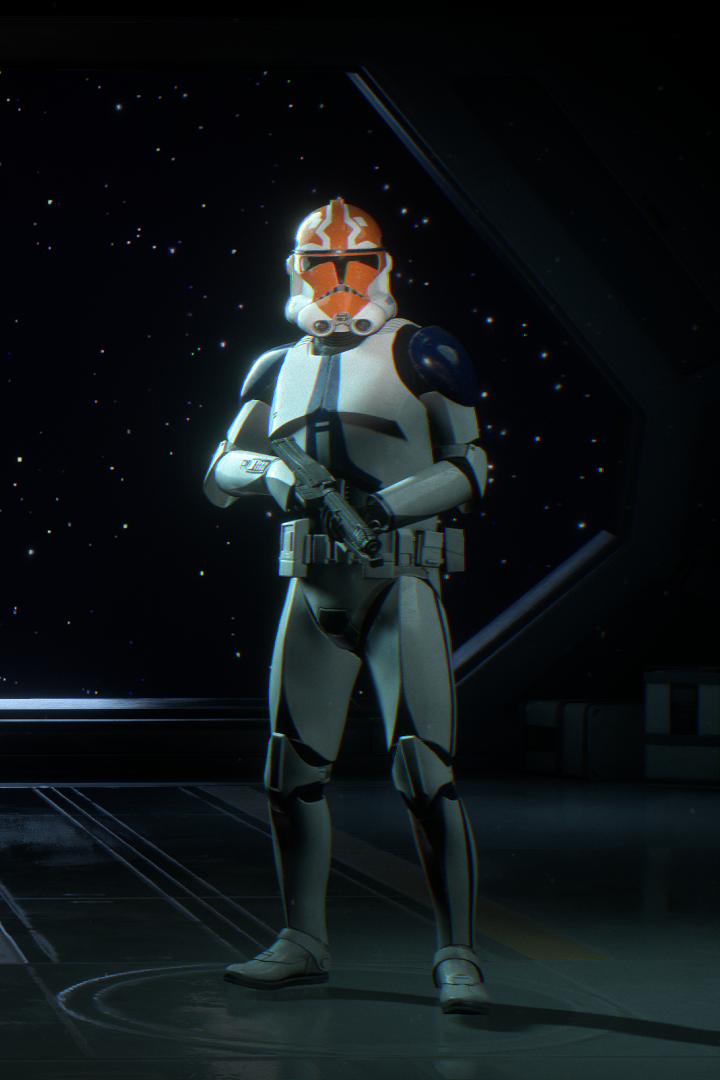
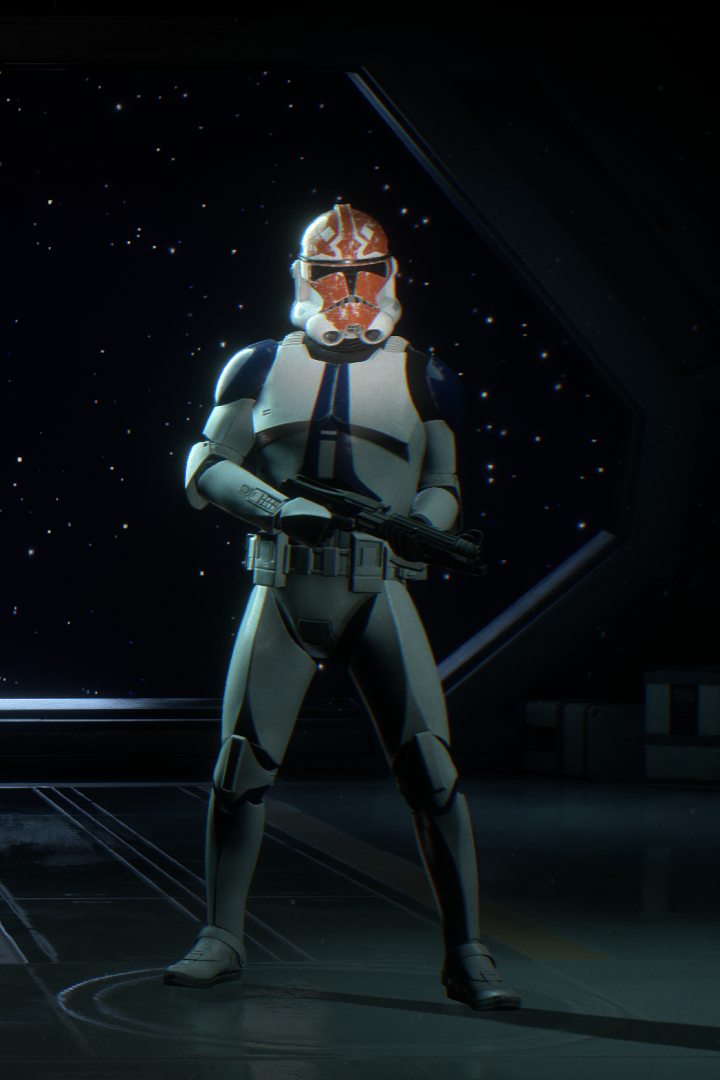
more clone skins

Changed region(s): [[0.2139, 0.1833, 0.7333, 0.9778], [0.7639, 0.9472, 1.0, 0.9778]]

diff --git a/docs/community-updates/v10.md b/docs/community-updates/v10.md
@@ -95,6 +95,10 @@ More appearances, new and nostalgic, have been added than ever before, expanding
 - COMMANDER <img class="reinforcement-type" class="no-lb" src="../../assets/classes/Class_Troopers_Assault_01.svg"><img class="reinforcement-type" class="no-lb" src="../../assets/classes/Class_Troopers_Heavy_01.svg"><img class="reinforcement-type" class="no-lb" src="../../assets/classes/Class_Troopers_Officer_01.svg"><img class="reinforcement-type" class="no-lb" src="../../assets/classes/Class_Troopers_Specialist_01.svg">
 - LIEUTENANT <img class="reinforcement-type" class="no-lb" src="../../assets/classes/Class_Troopers_Assault_01.svg"><img class="reinforcement-type" class="no-lb" src="../../assets/classes/Class_Troopers_Heavy_01.svg"><img class="reinforcement-type" class="no-lb" src="../../assets/classes/Class_Troopers_Officer_01.svg"><img class="reinforcement-type" class="no-lb" src="../../assets/classes/Class_Troopers_Specialist_01.svg">
 - SERGEANT <img class="reinforcement-type" class="no-lb" src="../../assets/classes/Class_Troopers_Assault_01.svg"><img class="reinforcement-type" class="no-lb" src="../../assets/classes/Class_Troopers_Heavy_01.svg"><img class="reinforcement-type" class="no-lb" src="../../assets/classes/Class_Troopers_Officer_01.svg"><img class="reinforcement-type" class="no-lb" src="../../assets/classes/Class_Troopers_Specialist_01.svg">
+- HORN COMPANY <img class="reinforcement-type" class="no-lb" src="../../assets/classes/Class_Troopers_Assault_01.svg"><img class="reinforcement-type" class="no-lb" src="../../assets/classes/Class_Troopers_Heavy_01.svg"><img class="reinforcement-type" class="no-lb" src="../../assets/classes/Class_Troopers_Officer_01.svg"><img class="reinforcement-type" class="no-lb" src="../../assets/classes/Class_Troopers_Specialist_01.svg">
+- OUTER RIM GARRISON <img class="reinforcement-type" class="no-lb" src="../../assets/classes/Class_Troopers_Assault_01.svg"><img class="reinforcement-type" class="no-lb" src="../../assets/classes/Class_Troopers_Heavy_01.svg"><img class="reinforcement-type" class="no-lb" src="../../assets/classes/Class_Troopers_Officer_01.svg"><img class="reinforcement-type" class="no-lb" src="../../assets/classes/Class_Troopers_Specialist_01.svg">
+- RANCOR BATTALION <img class="reinforcement-type" class="no-lb" src="../../assets/classes/Class_Troopers_Assault_01.svg"><img class="reinforcement-type" class="no-lb" src="../../assets/classes/Class_Troopers_Heavy_01.svg"><img class="reinforcement-type" class="no-lb" src="../../assets/classes/Class_Troopers_Officer_01.svg"><img class="reinforcement-type" class="no-lb" src="../../assets/classes/Class_Troopers_Specialist_01.svg">
+- KAMINO SECURITY <img class="reinforcement-type" class="no-lb" src="../../assets/classes/Class_Troopers_Assault_01.svg"><img class="reinforcement-type" class="no-lb" src="../../assets/classes/Class_Troopers_Heavy_01.svg"><img class="reinforcement-type" class="no-lb" src="../../assets/classes/Class_Troopers_Officer_01.svg"><img class="reinforcement-type" class="no-lb" src="../../assets/classes/Class_Troopers_Specialist_01.svg">
 
 **Clone Jet Trooper** <img class="reinforcement-type" class="no-lb" src="../../assets/abilities/reinfocements/Class_JumpTrooper.svg">
 
@@ -472,6 +476,11 @@ ___
             - Added Commander appearance to the Assault, Heavy, Officer, and Specialist.
             - Added Lieutenant appearance to the Assault, Heavy, Officer, and Specialist.
             - Added Sergeant appearance to the Assault, Heavy, Officer, and Specialist.
+            - Added Horn Company appearance to the Assault, Heavy, Officer, and Specialist.
+            - Added Outer Rim Garrison appearance to the Assault, Heavy, Officer, and Specialist.
+            - Added Rancor Battalion appearance to the Assault, Heavy, Officer, and Specialist.
+            - Added Kamino Security appearance to the Assault, Heavy, Officer, and Specialist.
+            - Updated 332nd Company appearance.
         - Separatists
             - Added Security appearance to the Assault, Heavy, and Officer.
             - Added Weapons Factory appearance to the Assault, Heavy, Officer, and Specialist.
@@ -542,8 +551,8 @@ ___
         - RT-97C
             - Increased damage.
         - Sonic Blaster
-            - Adjusted the scale and position of the mesh to better fit the character animations and screen.
-            - Added an emissive element to the mesh.
+            - Adjusted the scale and position of the model to better fit the character animations and screen.
+            - Added an emissive element to the model.
             - Removed scope overlay from zoom-in.
             - Improved cooling.
             - Replaced crosshair.
@@ -691,6 +700,7 @@ ___
         - Increased max health.
         - ANTI-INFANTRY MODE
             - Increased supercooling minigame size.
+        - Added Captain, Commander, Horn Company, Kamino Security, Lieutenant, Lightning Squadron, Outer Rim Garrison, Rancor Battalion, Sergeant, 13th Battalion, 187th Battalion appearances.
     - Resistance Rocket-Jumper
         - CONCUSSION DART
             - Replaced crosshair.
@@ -729,7 +739,7 @@ ___
         - Added Aratech 11-3K appearance.
         - Default appearance named Arakyd Probot.
     - Wookiee Warrior
-        -Locked to Age of Rebellion, except on Kashyyyk in Age of the Republic.
+        - Locked to Age of Rebellion, except on Kashyyyk in Age of the Republic.
         - BOWCASTER
             - Added overheat functionality.
             - Added effects while charging up.
@@ -823,8 +833,7 @@ ___
     - Ahsoka Tano
         - Added unique voicelines.
     - Boba Fett
-        - Added Pursuit appearance.
-        - Added Prototype appearance.
+        - Added Pursuit and Prototype appearances.
     - Bossk
         - RELBY V-10
             - Increased start and end damage.
@@ -836,9 +845,7 @@ ___
             - Removed the small delay between hitting an enemy and the bonus damage triggering.
             - Added unique voicelines.
         - Added an animated BD-1 with a rotating head to all appearances.
-        - Added Survivor appearance.
-        - Added Poncho appearance.
-        - Added Inquisitor appearance.
+        - Added Survivor, Poncho, and Inquisitor appearances.
         - Added green saber color appearance options.
         - Renamed all original appearance options to Scrapper.
         - Added unique voicelines.
@@ -855,8 +862,7 @@ ___
         - FRY THEIR CIRCUITS
             - Increased recharge time penalty.
     - Chewbacca
-        - Added C-3PO appearance, featuring voicelines and a dynamic arm and head.
-        - Added Life Day appearance.
+        - Added C-3PO and Life Day appearances.
     - Commander Cody
         - Added Imperial appearance.
     - Commander Pyre
@@ -932,8 +938,7 @@ ___
     - Leia Organa
         - Added Bespin Escape appearance.
     - Luke Skywalker
-        - Added Bespin appearance.
-        - Added Training Helmet appearance.
+        - Added Bespin and Training Helmet appearances.
     - Maz Kanata
         - CHANGE IN FORTUNE
             - Added new start, end, and success sounds.
@@ -946,8 +951,7 @@ ___
         - BUDDY TURRET Star Card
             - Reduced recharge time penalty to the AUGMENTED TURRET.
     - Obi-Wan Kenobi
-        - Added Supercommando appearance.
-        - Added Mandalore appearance.
+        - Added Supercommando and Mandalore appearances.
     - Rey
         - MIND TRICK
             - No longer reduces look sensitivity.
